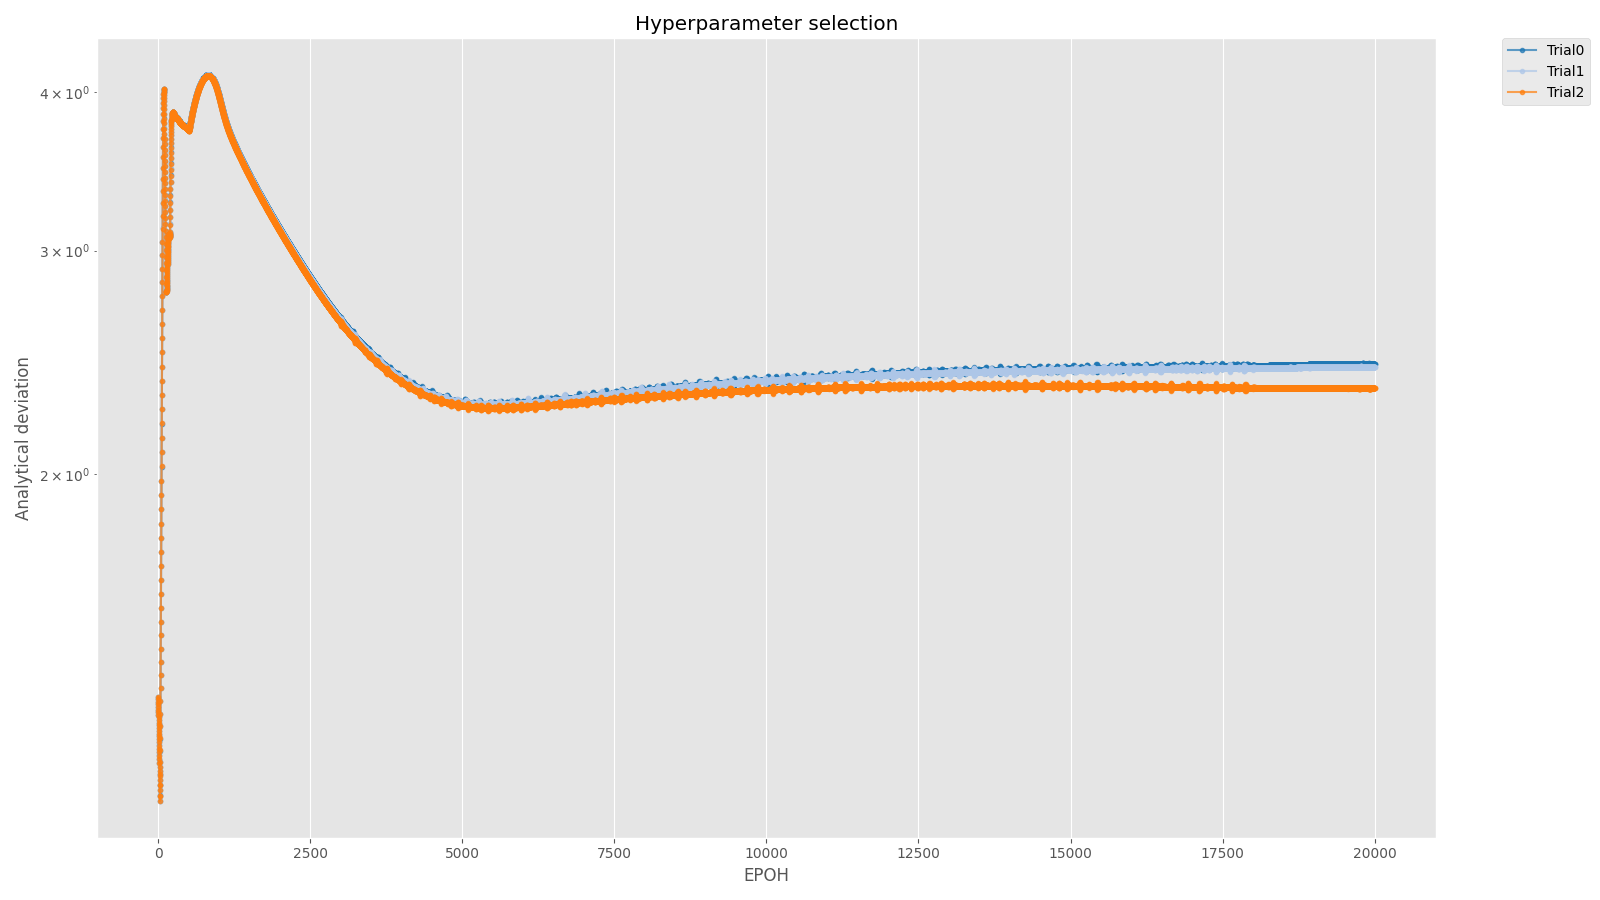
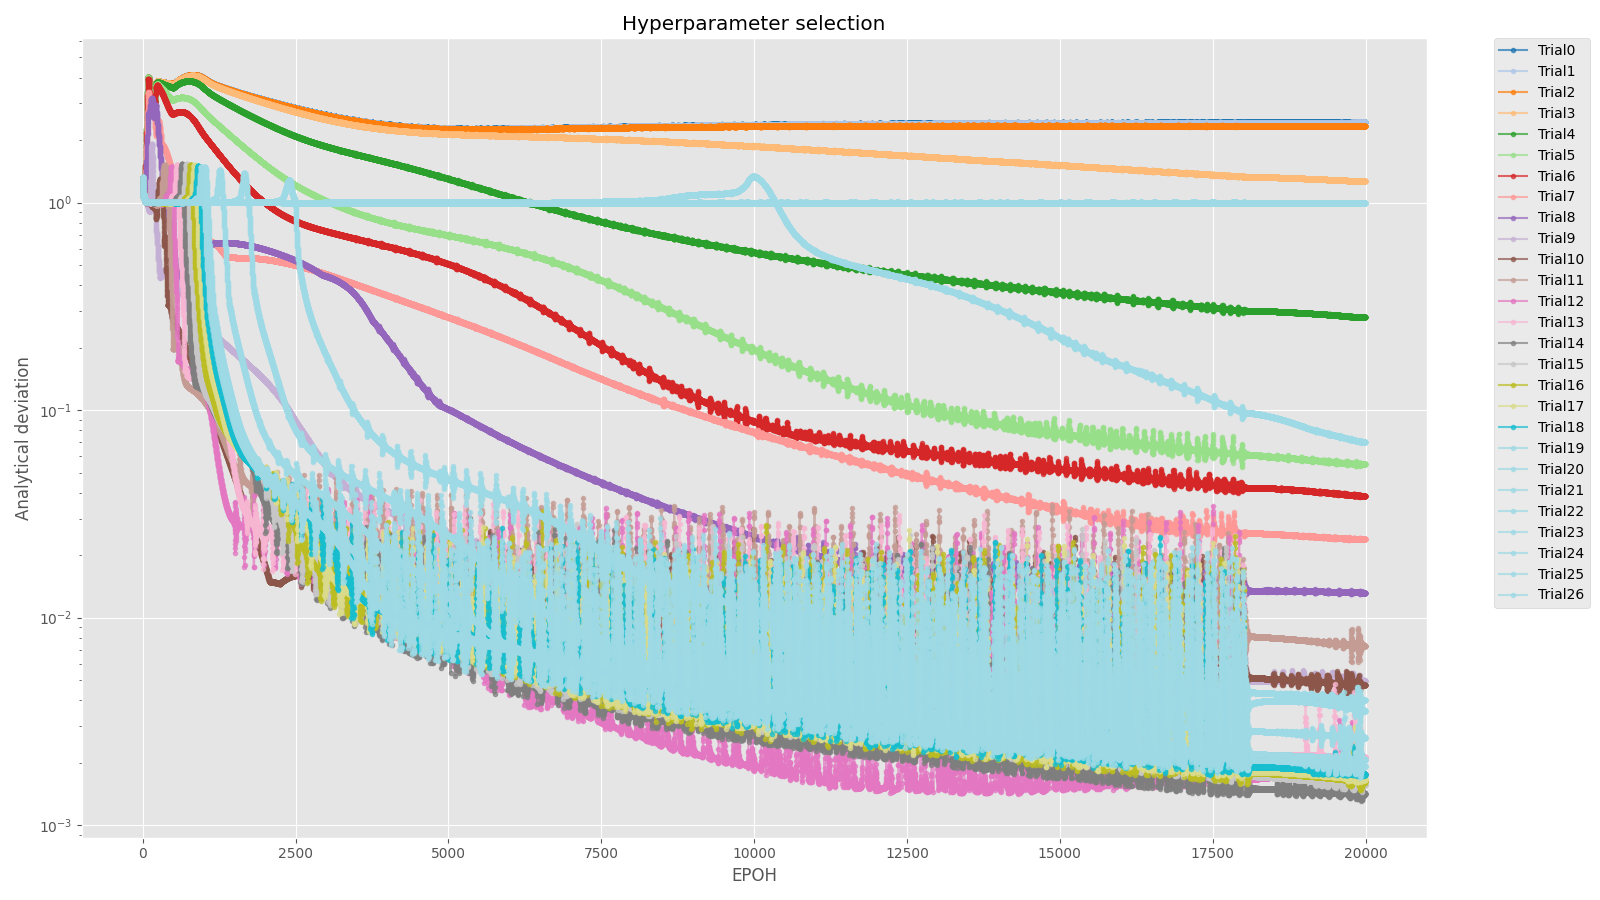
fin res

diff --git a/src/Neural_Network.py b/src/Neural_Network.py
@@ -25,8 +25,7 @@ Loss = []
 current_loss = 0
 equal_loss = 0
 equalLossFinal = []
-arr_lambdas = [1e-6, 1e-5, 1e-4]
-# arr_lambdas = [1e-6, 1e-5, 1e-4, 1e-3, 1e-2, 0.05, 0.1, 0.5, 1, 10, 50, 100, 200, 300, 400, 500, 600, 700, 800, 900, 1e3, 1500, 2500, 5000, 10e4, 10e5, 10e6]
+arr_lambdas = [1e-6, 1e-5, 1e-4, 1e-3, 1e-2, 0.05, 0.1, 0.5, 1, 10, 50, 100, 200, 300, 400, 500, 600, 700, 800, 900, 1e3, 1500, 2500, 5000, 10e4, 10e5, 10e6]
 len(arr_lambdas)
 
 
